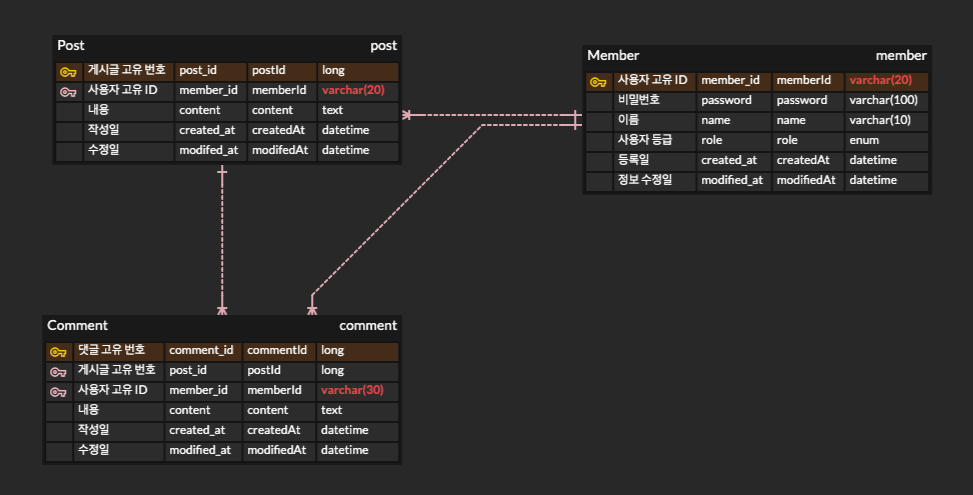
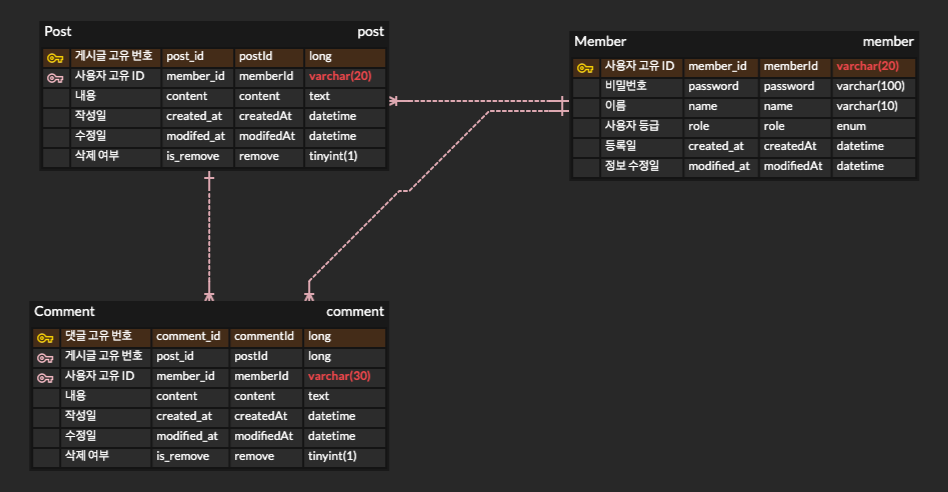
feat : remove column 추가 - CommentEntity, PostEntity

diff --git a/src/main/java/io/started/security/domain/comment/jpa/entity/CommentEntity.java b/src/main/java/io/started/security/domain/comment/jpa/entity/CommentEntity.java
@@ -18,6 +18,7 @@ public class CommentEntity extends BaseTimeEntity {
     @Id
     private Long commentId;
     private String content;
+    private boolean remove;
 
     @ToString.Exclude
     @ManyToOne(fetch = FetchType.LAZY)

diff --git a/src/main/java/io/started/security/domain/post/jpa/entity/PostEntity.java b/src/main/java/io/started/security/domain/post/jpa/entity/PostEntity.java
@@ -20,6 +20,7 @@ public class PostEntity extends BaseTimeEntity {
     @Id
     private Long postId;
     private String content;
+    private boolean remove;
 
     @ToString.Exclude
     @ManyToOne(fetch = FetchType.LAZY)
